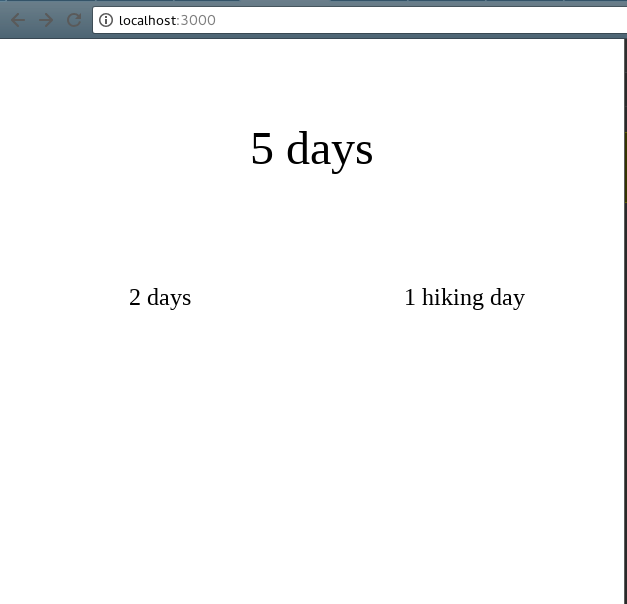
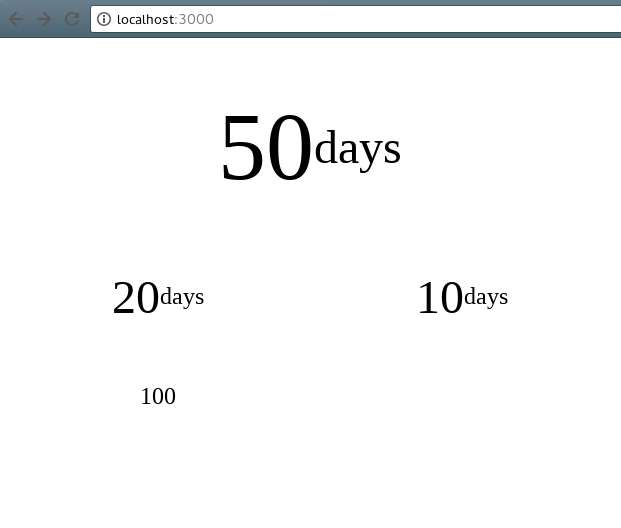
Added component properties

diff --git a/counter/src/components/SkiDayCount.js b/counter/src/components/SkiDayCount.js
@@ -8,13 +8,19 @@ export const SkiDayCount = React.createClass({
     return (
       <div className="ski-day-count">
         <div className="total-days">
-          <span>5 days</span>
+          <span>{this.props.total}</span>
+          <span>days</span>
         </div>
         <div className="powder-days">
-          <span>2 days</span>
+          <span>{this.props.powder}</span>
+          <span>days</span>
         </div>
         <div className="backcountry-days">
-          <span>1 hiking day</span>
+          <span>{this.props.backcountry}</span>
+          <span>days</span>
+        </div>
+        <div>
+          <span>{this.props.goal}</span>
         </div>
       </div>
     )

diff --git a/counter/src/index.js b/counter/src/index.js
@@ -6,6 +6,11 @@ import { SkiDayCount } from './components/SkiDayCount'
 window.React = React
 
 render(
-	<SkiDayCount />,
+	<SkiDayCount
+		total={50}
+		powder={20}
+		backcountry={10}
+		goal={100}
+	/>,
 	document.getElementById('react-container')
 )
